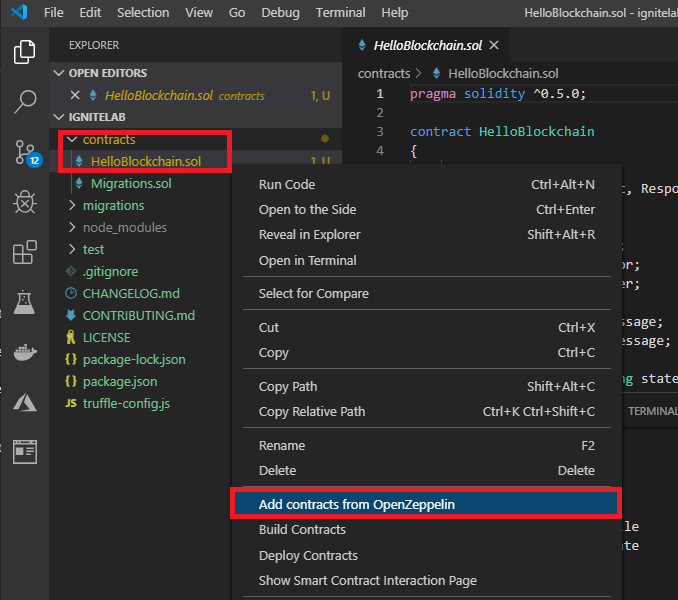
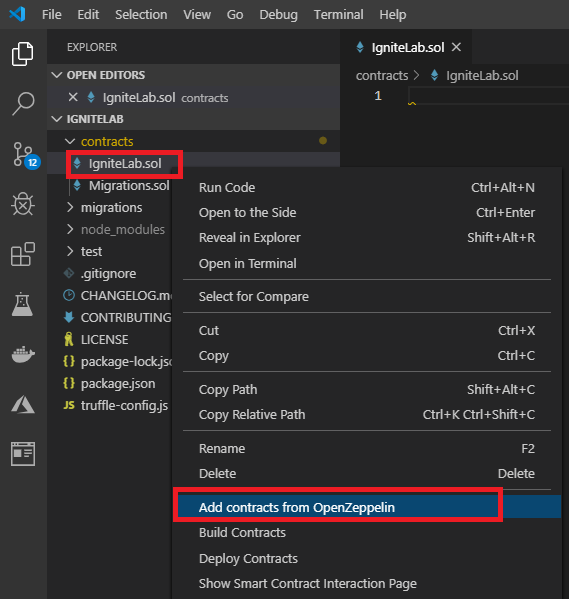
updates

diff --git a/story1/story1.md b/story1/story1.md
@@ -36,7 +36,7 @@
 
   ![](../images/explorerCharm.png)
 
-  ## Step 3 - Download an OSS ERC20 token
+  ## Step 3 - Setup your directory 
 
 - You are now ready to scaffold out a basic solidity project. From VS Code menu select, `view, command palette` and in the drop down type `azure blockchain:` and select `New Solidity Project` 
 
@@ -48,9 +48,27 @@
 
   ![](../images/projectUnboxComplete.png)
 
+- In this lab, we will not use the HelloBlockchain.sol contract that is downloaded in the c:\ignitelab\contracts directory. Right click on the file and hit delete (or just use the delete key on your keboard)
+
+- Add a new file to the project and title it `IgniteLab.sol` by clicking on the new file icon at the top of the project explorer in VS code
+
+  `Note: make sure you are adding this file into the "contracts" directory. You can ensure this by first clicing on the contracts tab, then adding the file`
+
+  ![](../images/newFile.png)
+
+![](../images/igniteLabSol.png)
+
+- In this new file cut and paste the following code and hit save (ctrl-s)
+
+  ```
+  TODO - CODE BLOCK FOR OUR NEW CONTRACT
+  ```
+
+  ## Step 4: Download and integrate your OSS ERC20 token
+
 - Now that you have a basic project and directory structure, you need to download the ERC-20 token from OpenZeppelin
 
-- In the VS Code editor, click on the `contracts` folder, left click on the "helloblockchain.sol" file
+- In the VS Code editor, click on the `contracts` folder, left click on the "IgniteLab.sol" file
 
 - After selecting the .sol file, `right click` on the contract and you will see a context menu which will allow you to download OpenZeppelin Contracts
 

diff --git a/story3/story3.md b/story3/story3.md
@@ -28,7 +28,14 @@ If you did not have a Azure Blockchain Service (ABS) instance already created, y
 
   ![](../images/deployToABS.png)
 
-- GENERATE MNEMONIC PART....!!!!
+- On the next drop down, select `generate mnemonic`
+
+  ![](../images/generateMnemonic.png)
+
+- After selecting the `generate mnemonic` option above, you will get a file save box - Name the file anything you wish and save the mnemonic .env file anywhere on the C:\ drive
+
 - This begins the process of deploying your contract/token to the Azure Blockchain Service you connected in step 1
+
 - Once complete, you will find similar metadata in the output window as you saw when deploying a contract locally in story 2 (i.e., contract address etc)
+
 - 
